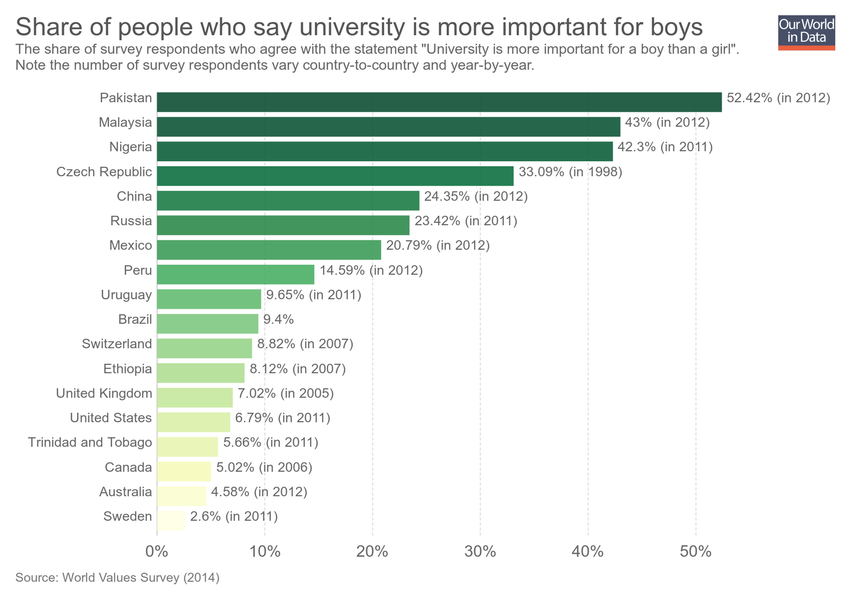
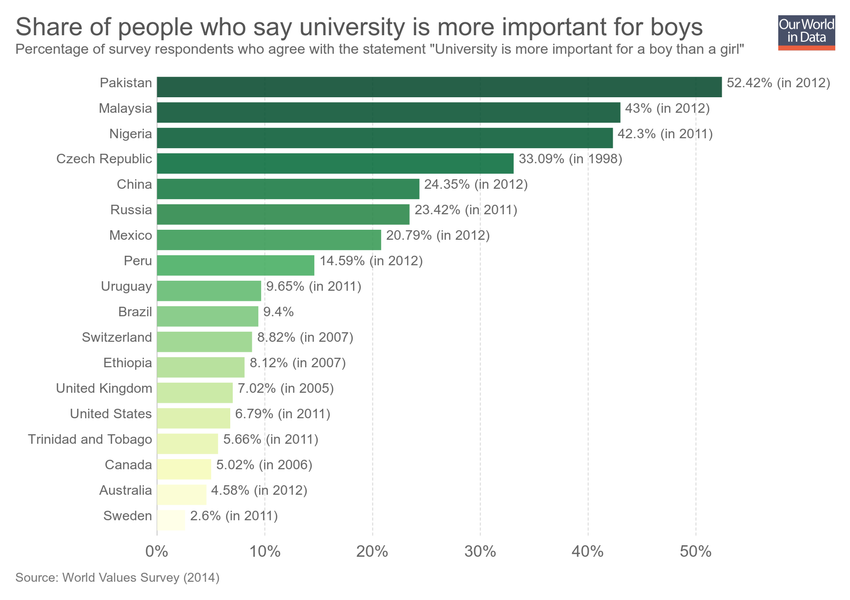
Updating chart share-of-people-who-agree-university-is-more-important-for-boys

Changed region(s): [[0.0, 0.06, 0.9788, 0.87]]

diff --git a/grapher/share-of-people-who-agree-university-is-more-important-for-boys.html b/grapher/share-of-people-who-agree-university-is-more-important-for-boys.html
@@ -1,4 +1,4 @@
-<!doctype html><html><head><meta name="viewport" content="width=device-width, initial-scale=1" /><title>Share of people who say university is more important for boys - Our World in Data</title><meta name="description" content="The share of survey respondents who agree with the statement &quot;University is more important for a boy than a girl&quot;. Note the number of survey respondents vary country-to-country and year-by-year." /><link rel="canonical" href="https://ourworldindata.org/grapher/share-of-people-who-agree-university-is-more-important-for-boys" /><meta property="fb:app_id" content="1149943818390250" /><meta property="og:url" content="https://ourworldindata.org/grapher/share-of-people-who-agree-university-is-more-important-for-boys" /><meta property="og:title" content="Share of people who say university is more important for boys" /><meta property="og:description" content="The share of survey respondents who agree with the statement &quot;University is more important for a boy than a girl&quot;. Note the number of survey respondents vary country-to-country and year-by-year." /><meta property="og:image" content="https://ourworldindata.org/grapher/exports/share-of-people-who-agree-university-is-more-important-for-boys.png?v=11" /><meta property="og:image:width" content="850" /><meta property="og:image:height" content="600" /><meta property="og:site_name" content="Our World in Data" /><meta name="twitter:card" content="summary_large_image" /><meta name="twitter:site" content="@OurWorldInData" /><meta name="twitter:creator" content="@OurWorldInData" /><meta name="twitter:title" content="Share of people who say university is more important for boys" /><meta name="twitter:description" content="The share of survey respondents who agree with the statement &quot;University is more important for a boy than a girl&quot;. Note the number of survey respondents vary country-to-country and year-by-year." /><meta name="twitter:image" content="https://ourworldindata.org/grapher/exports/share-of-people-who-agree-university-is-more-important-for-boys.png?v=11" /><style>
+<!doctype html><html><head><meta name="viewport" content="width=device-width, initial-scale=1" /><title>Share of people who say university is more important for boys - Our World in Data</title><meta name="description" content="Percentage of survey respondents who agree with the statement &quot;University is more important for a boy than a girl&quot;" /><link rel="canonical" href="https://ourworldindata.org/grapher/share-of-people-who-agree-university-is-more-important-for-boys" /><meta property="fb:app_id" content="1149943818390250" /><meta property="og:url" content="https://ourworldindata.org/grapher/share-of-people-who-agree-university-is-more-important-for-boys" /><meta property="og:title" content="Share of people who say university is more important for boys" /><meta property="og:description" content="Percentage of survey respondents who agree with the statement &quot;University is more important for a boy than a girl&quot;" /><meta property="og:image" content="https://ourworldindata.org/grapher/exports/share-of-people-who-agree-university-is-more-important-for-boys.png?v=13" /><meta property="og:image:width" content="850" /><meta property="og:image:height" content="600" /><meta property="og:site_name" content="Our World in Data" /><meta name="twitter:card" content="summary_large_image" /><meta name="twitter:site" content="@OurWorldInData" /><meta name="twitter:creator" content="@OurWorldInData" /><meta name="twitter:title" content="Share of people who say university is more important for boys" /><meta name="twitter:description" content="Percentage of survey respondents who agree with the statement &quot;University is more important for a boy than a girl&quot;" /><meta name="twitter:image" content="https://ourworldindata.org/grapher/exports/share-of-people-who-agree-university-is-more-important-for-boys.png?v=13" /><style>
         html, body {
             height: 100%;
             margin: 0;
@@ -20,8 +20,8 @@
         }
     </style><noscript><style>
                     figure { display: none !important; }
-                </style></noscript><link rel="stylesheet" href="https://ourworldindata.org/grapher/assets/commons.bundle.d1960e3da364bb657ce8.css" /><link rel="preload" href="/grapher/data/variables/97464.json?v=11" as="fetch" crossorigin /></head><body class="singleChart"><figure data-grapher-src="/grapher/share-of-people-who-agree-university-is-more-important-for-boys"></figure><noscript id="fallback"><img src="/grapher/exports/share-of-people-who-agree-university-is-more-important-for-boys.svg" /><p>Interactive visualization requires JavaScript</p></noscript><script src="https://cdn.polyfill.io/v2/polyfill.min.js?features=es6,fetch"></script><script src="https://ourworldindata.org/grapher/assets/commons.bundle.d1960e3da364bb657ce8.js"></script><script src="https://ourworldindata.org/grapher/assets/charts.bundle.d1960e3da364bb657ce8.js"></script><script>
-        var jsonConfig = {"id":2652,"map":{"projection":"World","targetYear":2014,"variableId":97464,"binStepSize":10,"timeTolerance":5,"colorSchemeLabels":[],"colorSchemeValues":[],"customNumericColors":[],"customCategoryColors":{},"customCategoryLabels":{},"customHiddenCategories":{}},"tab":"chart","slug":"share-of-people-who-agree-university-is-more-important-for-boys","type":"DiscreteBar","title":"Share of people who say university is more important for boys","xAxis":{"scaleType":"linear"},"yAxis":{"min":0,"scaleType":"linear"},"version":11,"subtitle":"The share of survey respondents who agree with the statement \"University is more important for a boy than a girl\". Note the number of survey respondents vary country-to-country and year-by-year.","hasMapTab":true,"stackMode":"absolute","dimensions":[{"display":{"shortUnit":"%","tolerance":20},"property":"y","variableId":97464}],"hasChartTab":true,"isPublished":true,"selectedData":[{"index":0,"entityId":73},{"index":0,"entityId":158},{"index":0,"entityId":63},{"index":0,"entityId":162},{"index":0,"entityId":171},{"index":0,"entityId":44},{"index":0,"entityId":1},{"index":0,"entityId":13},{"index":0,"entityId":12},{"index":0,"entityId":97},{"index":0,"entityId":101},{"index":0,"entityId":113},{"index":0,"entityId":116},{"index":0,"entityId":37},{"index":0,"entityId":10},{"index":0,"entityId":7},{"index":0,"entityId":23},{"index":0,"entityId":103}],"addCountryMode":"add-country","baseColorScheme":"YlGn","hideTitleAnnotation":true};
+                </style></noscript><link rel="stylesheet" href="https://ourworldindata.org/grapher/assets/commons.bundle.d1960e3da364bb657ce8.css" /><link rel="preload" href="/grapher/data/variables/97464.json?v=13" as="fetch" crossorigin /></head><body class="singleChart"><figure data-grapher-src="/grapher/share-of-people-who-agree-university-is-more-important-for-boys"></figure><noscript id="fallback"><img src="/grapher/exports/share-of-people-who-agree-university-is-more-important-for-boys.svg" /><p>Interactive visualization requires JavaScript</p></noscript><script src="https://cdn.polyfill.io/v2/polyfill.min.js?features=es6,fetch"></script><script src="https://ourworldindata.org/grapher/assets/commons.bundle.d1960e3da364bb657ce8.js"></script><script src="https://ourworldindata.org/grapher/assets/charts.bundle.d1960e3da364bb657ce8.js"></script><script>
+        var jsonConfig = {"id":2652,"map":{"projection":"World","targetYear":2014,"variableId":97464,"binStepSize":10,"timeTolerance":5,"colorSchemeLabels":[],"colorSchemeValues":[],"customNumericColors":[],"customCategoryColors":{},"customCategoryLabels":{},"customHiddenCategories":{}},"tab":"chart","slug":"share-of-people-who-agree-university-is-more-important-for-boys","type":"DiscreteBar","title":"Share of people who say university is more important for boys","xAxis":{"scaleType":"linear"},"yAxis":{"min":0,"scaleType":"linear"},"version":13,"subtitle":"Percentage of survey respondents who agree with the statement \"University is more important for a boy than a girl\"","hasMapTab":true,"stackMode":"absolute","dimensions":[{"display":{"shortUnit":"%","tolerance":20},"property":"y","variableId":97464}],"hasChartTab":true,"isPublished":true,"selectedData":[{"index":0,"entityId":73},{"index":0,"entityId":158},{"index":0,"entityId":63},{"index":0,"entityId":162},{"index":0,"entityId":171},{"index":0,"entityId":44},{"index":0,"entityId":1},{"index":0,"entityId":13},{"index":0,"entityId":12},{"index":0,"entityId":97},{"index":0,"entityId":101},{"index":0,"entityId":113},{"index":0,"entityId":116},{"index":0,"entityId":37},{"index":0,"entityId":10},{"index":0,"entityId":7},{"index":0,"entityId":23},{"index":0,"entityId":103}],"addCountryMode":"add-country","baseColorScheme":"YlGn","hideTitleAnnotation":true};
         var figure = document.getElementsByTagName("figure")[0];
         try {
             window.App = {};
